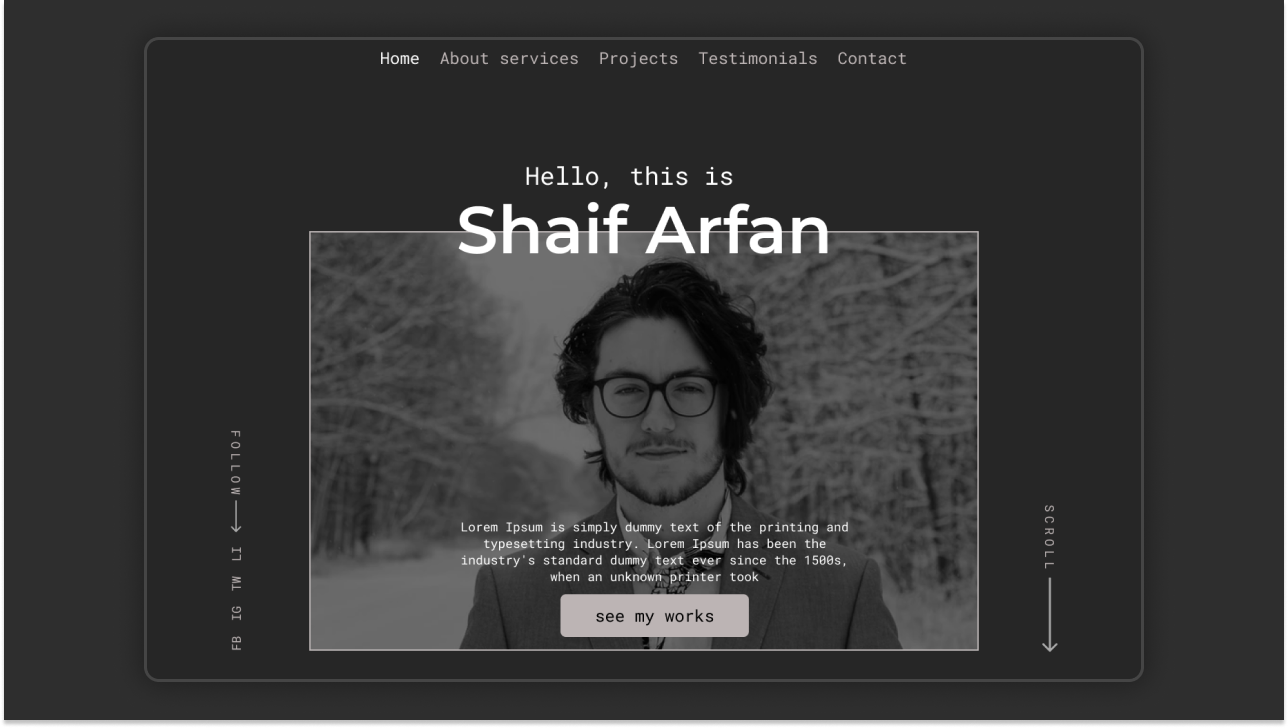
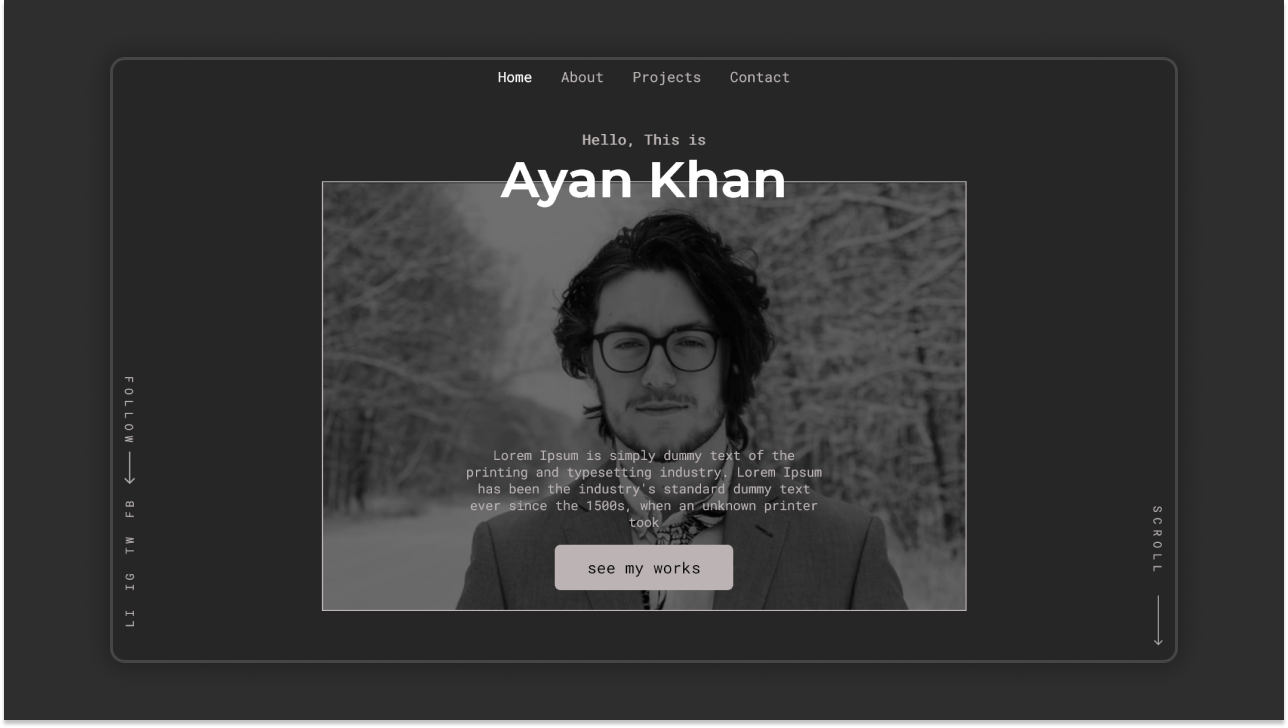
update img

diff --git a/src/pages/About.js b/src/pages/About.js
@@ -7,7 +7,7 @@ import AboutInfoItems from '../components/AboutInfoItem';
 import ContactBanner from '../components/ContactBanner';
 
 const AboutPageStyles = styled.div`
-  padding: 10rem 0;
+  padding: 20rem 0 10rem 0;
 
   .top-section {
     display: flex;
@@ -56,6 +56,7 @@ const AboutPageStyles = styled.div`
     text-transform: uppercase;
   }
   @media only screen and (max-width: 768px) {
+    padding: 10rem 0;
     .top-section {
       flex-direction: column;
       gap: 5rem;
@@ -80,7 +81,7 @@ export default function About() {
           <div className="top-section">
             <div className="left">
               <p className="about__subheading">
-                Hi, I am <span>Shaif Arfan</span>
+                Hi, I am <span>Ayan Khan</span>
               </p>
               <h2 className="about__heading">a freelance Web developer</h2>
               <div className="about__info">

diff --git a/src/components/Footer.js b/src/components/Footer.js
@@ -47,7 +47,7 @@ export default function Footer() {
     <FooterStyle>
       <div className="container">
         <div className="footer__col1">
-          <h1 className="footer__col1__title">Shaif Arfan</h1>
+          <h1 className="footer__col1__title">Ayan Khan</h1>
           <PText>
             Lorem Ipsum is simply dummy text of the printing and typesetting
             industry. Lorem Ipsum has been the industry's standard dummy text
@@ -122,7 +122,7 @@ export default function Footer() {
       </div>
       <div className="copyright">
         <div className="container">
-          <PText>All right Reserved 2021 - Shaif Arfan</PText>
+          <PText>All right Reserved 2021 - Ayan Khan</PText>
         </div>
       </div>
     </FooterStyle>

diff --git a/src/components/Hero.js b/src/components/Hero.js
@@ -150,7 +150,7 @@ export default function Hero() {
         <div className="container">
           <h1 className="hero__heading">
             <span>Hello, This is</span>
-            <span className="hero__name">Mukhtar</span>
+            <span className="hero__name">Ayan Khan</span>
           </h1>
           <div className="hero__img">
             <img src={HeroImg} alt="" />

diff --git a/src/components/ServicesSectionItem.js b/src/components/ServicesSectionItem.js
@@ -12,7 +12,7 @@ const ItemStyles = styled.div`
   }
   .servicesItem__title {
     font-size: 2.5rem;
-    font-family: 'RobotoMono SemiBold';
+    font-family: 'Montserrat SemiBold';
   }
   .para {
     margin-top: 2rem;

diff --git a/README.md b/README.md
@@ -1,4 +1,4 @@
-# React Portfolio website
+# Ayan's Portfolio website [React Project]
 
 Coded by - [shaif Arfan](http://github.com/shaifarfan) | [web cifar](http://webcifar.com)
 
